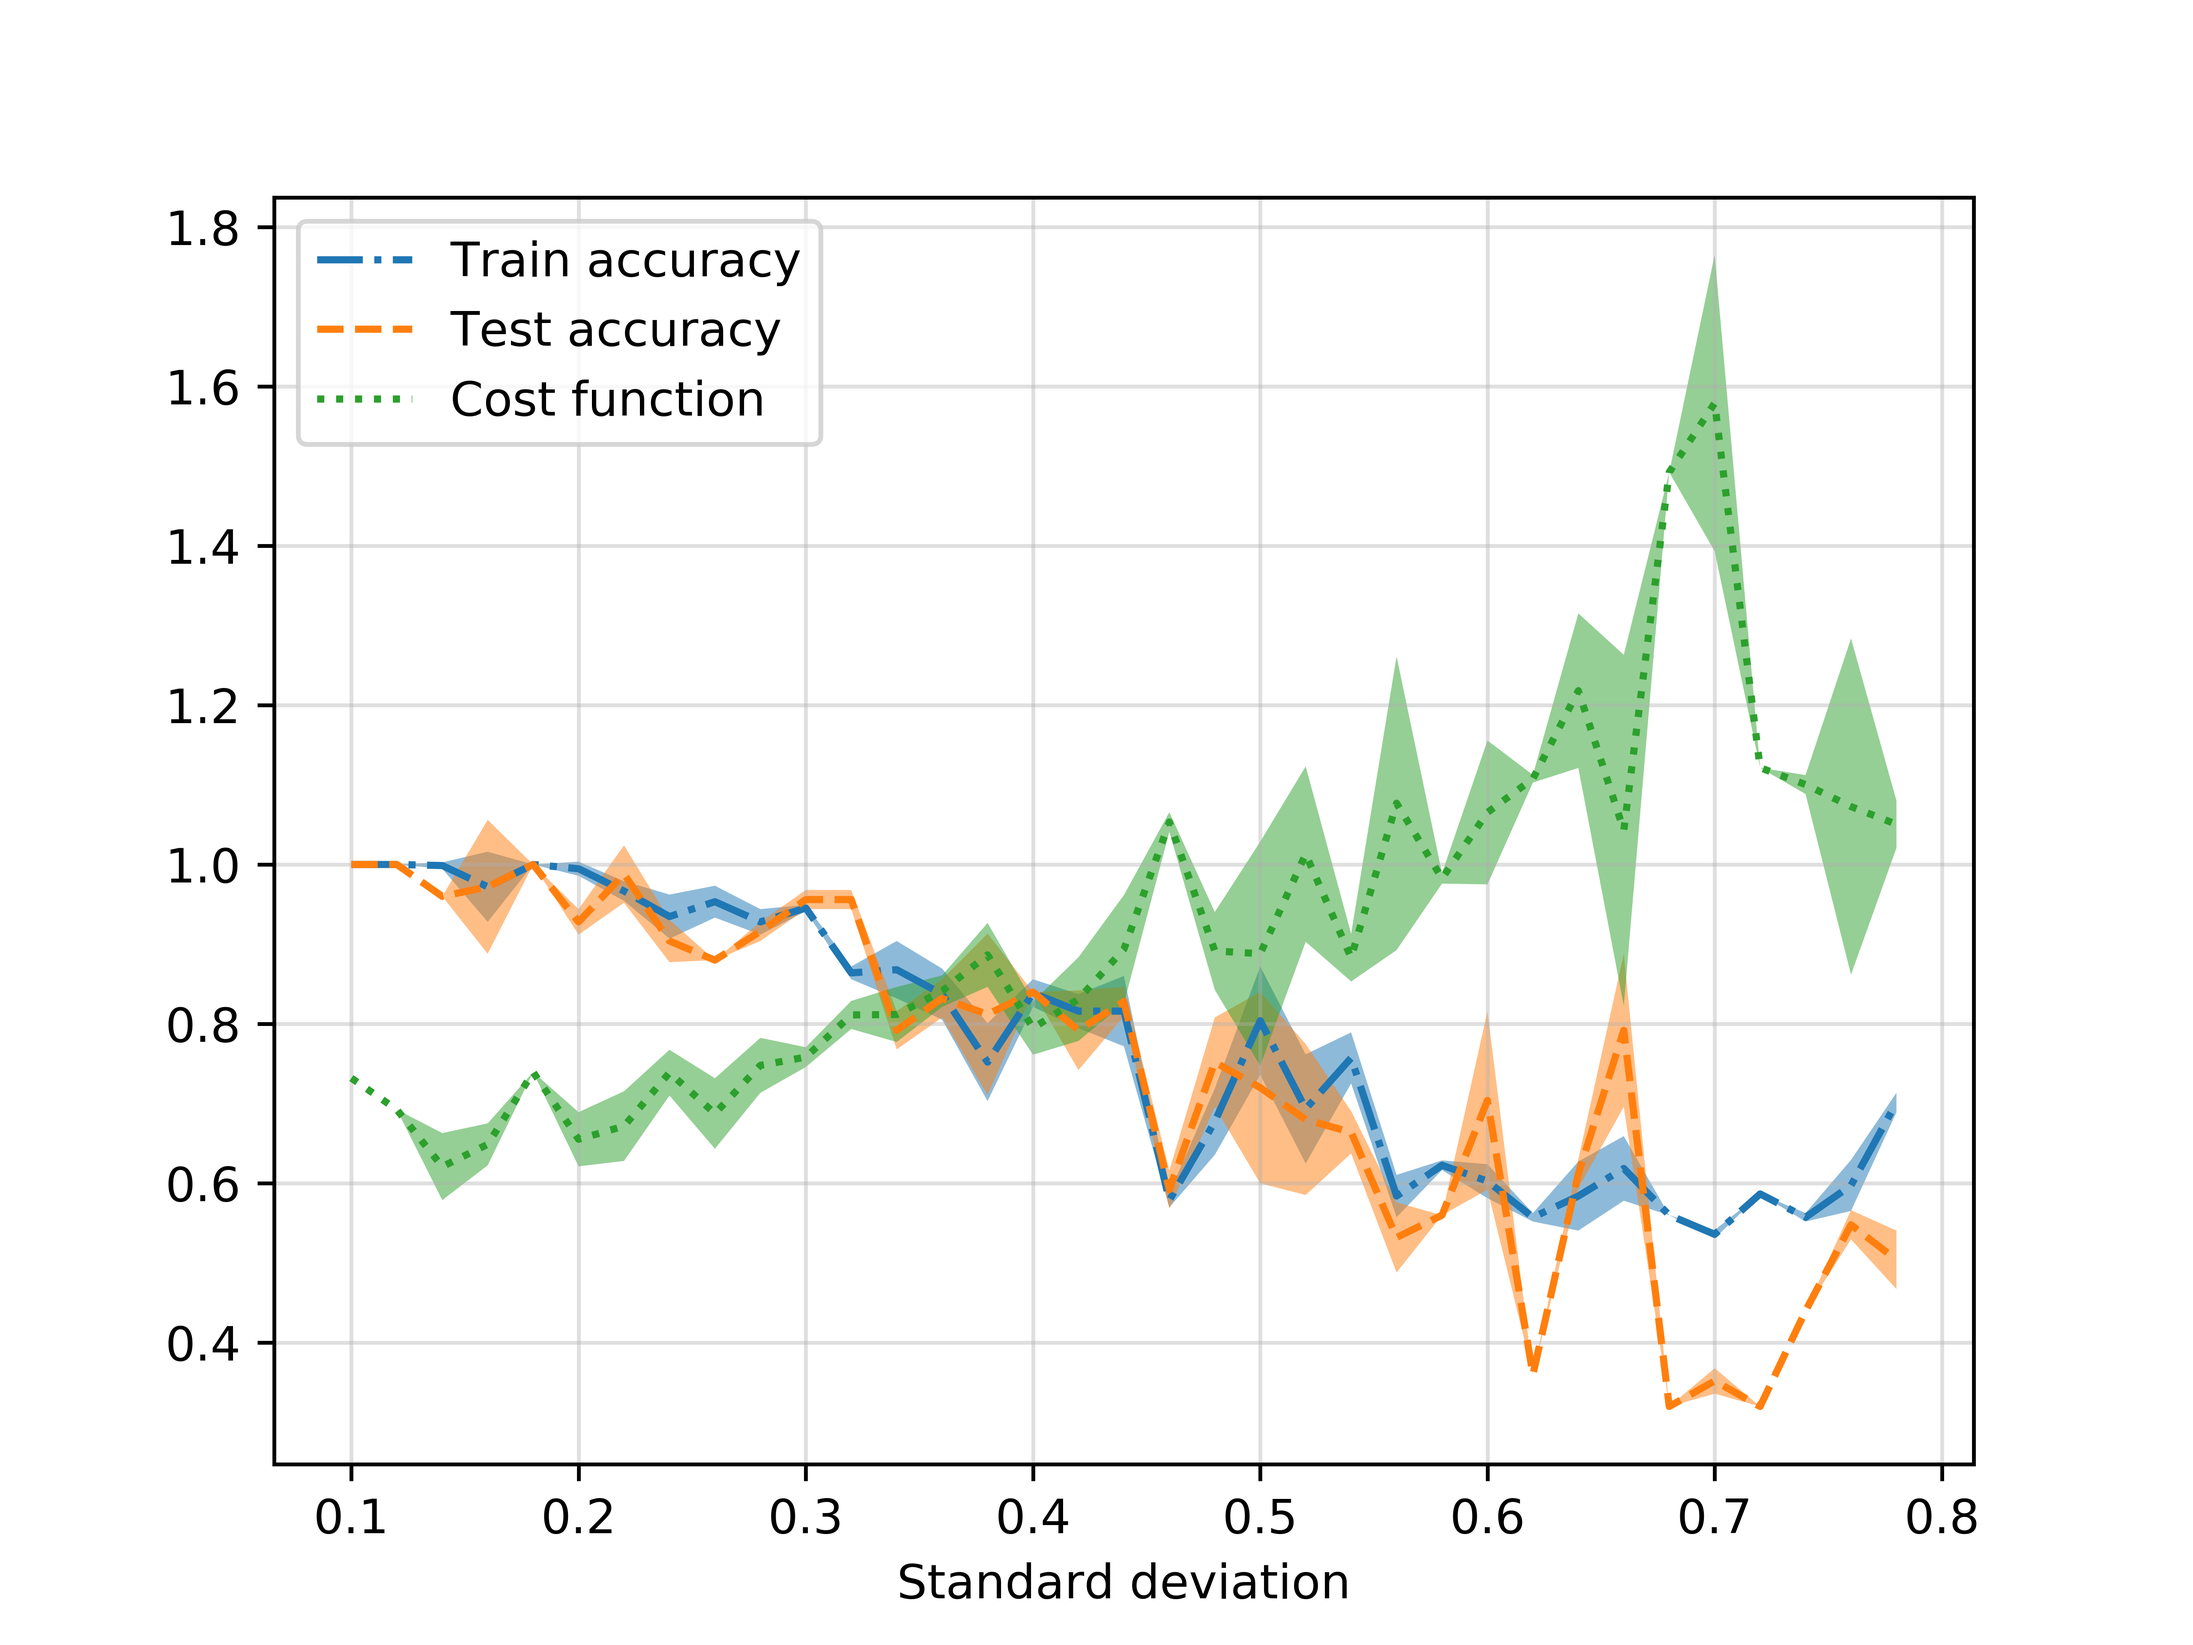
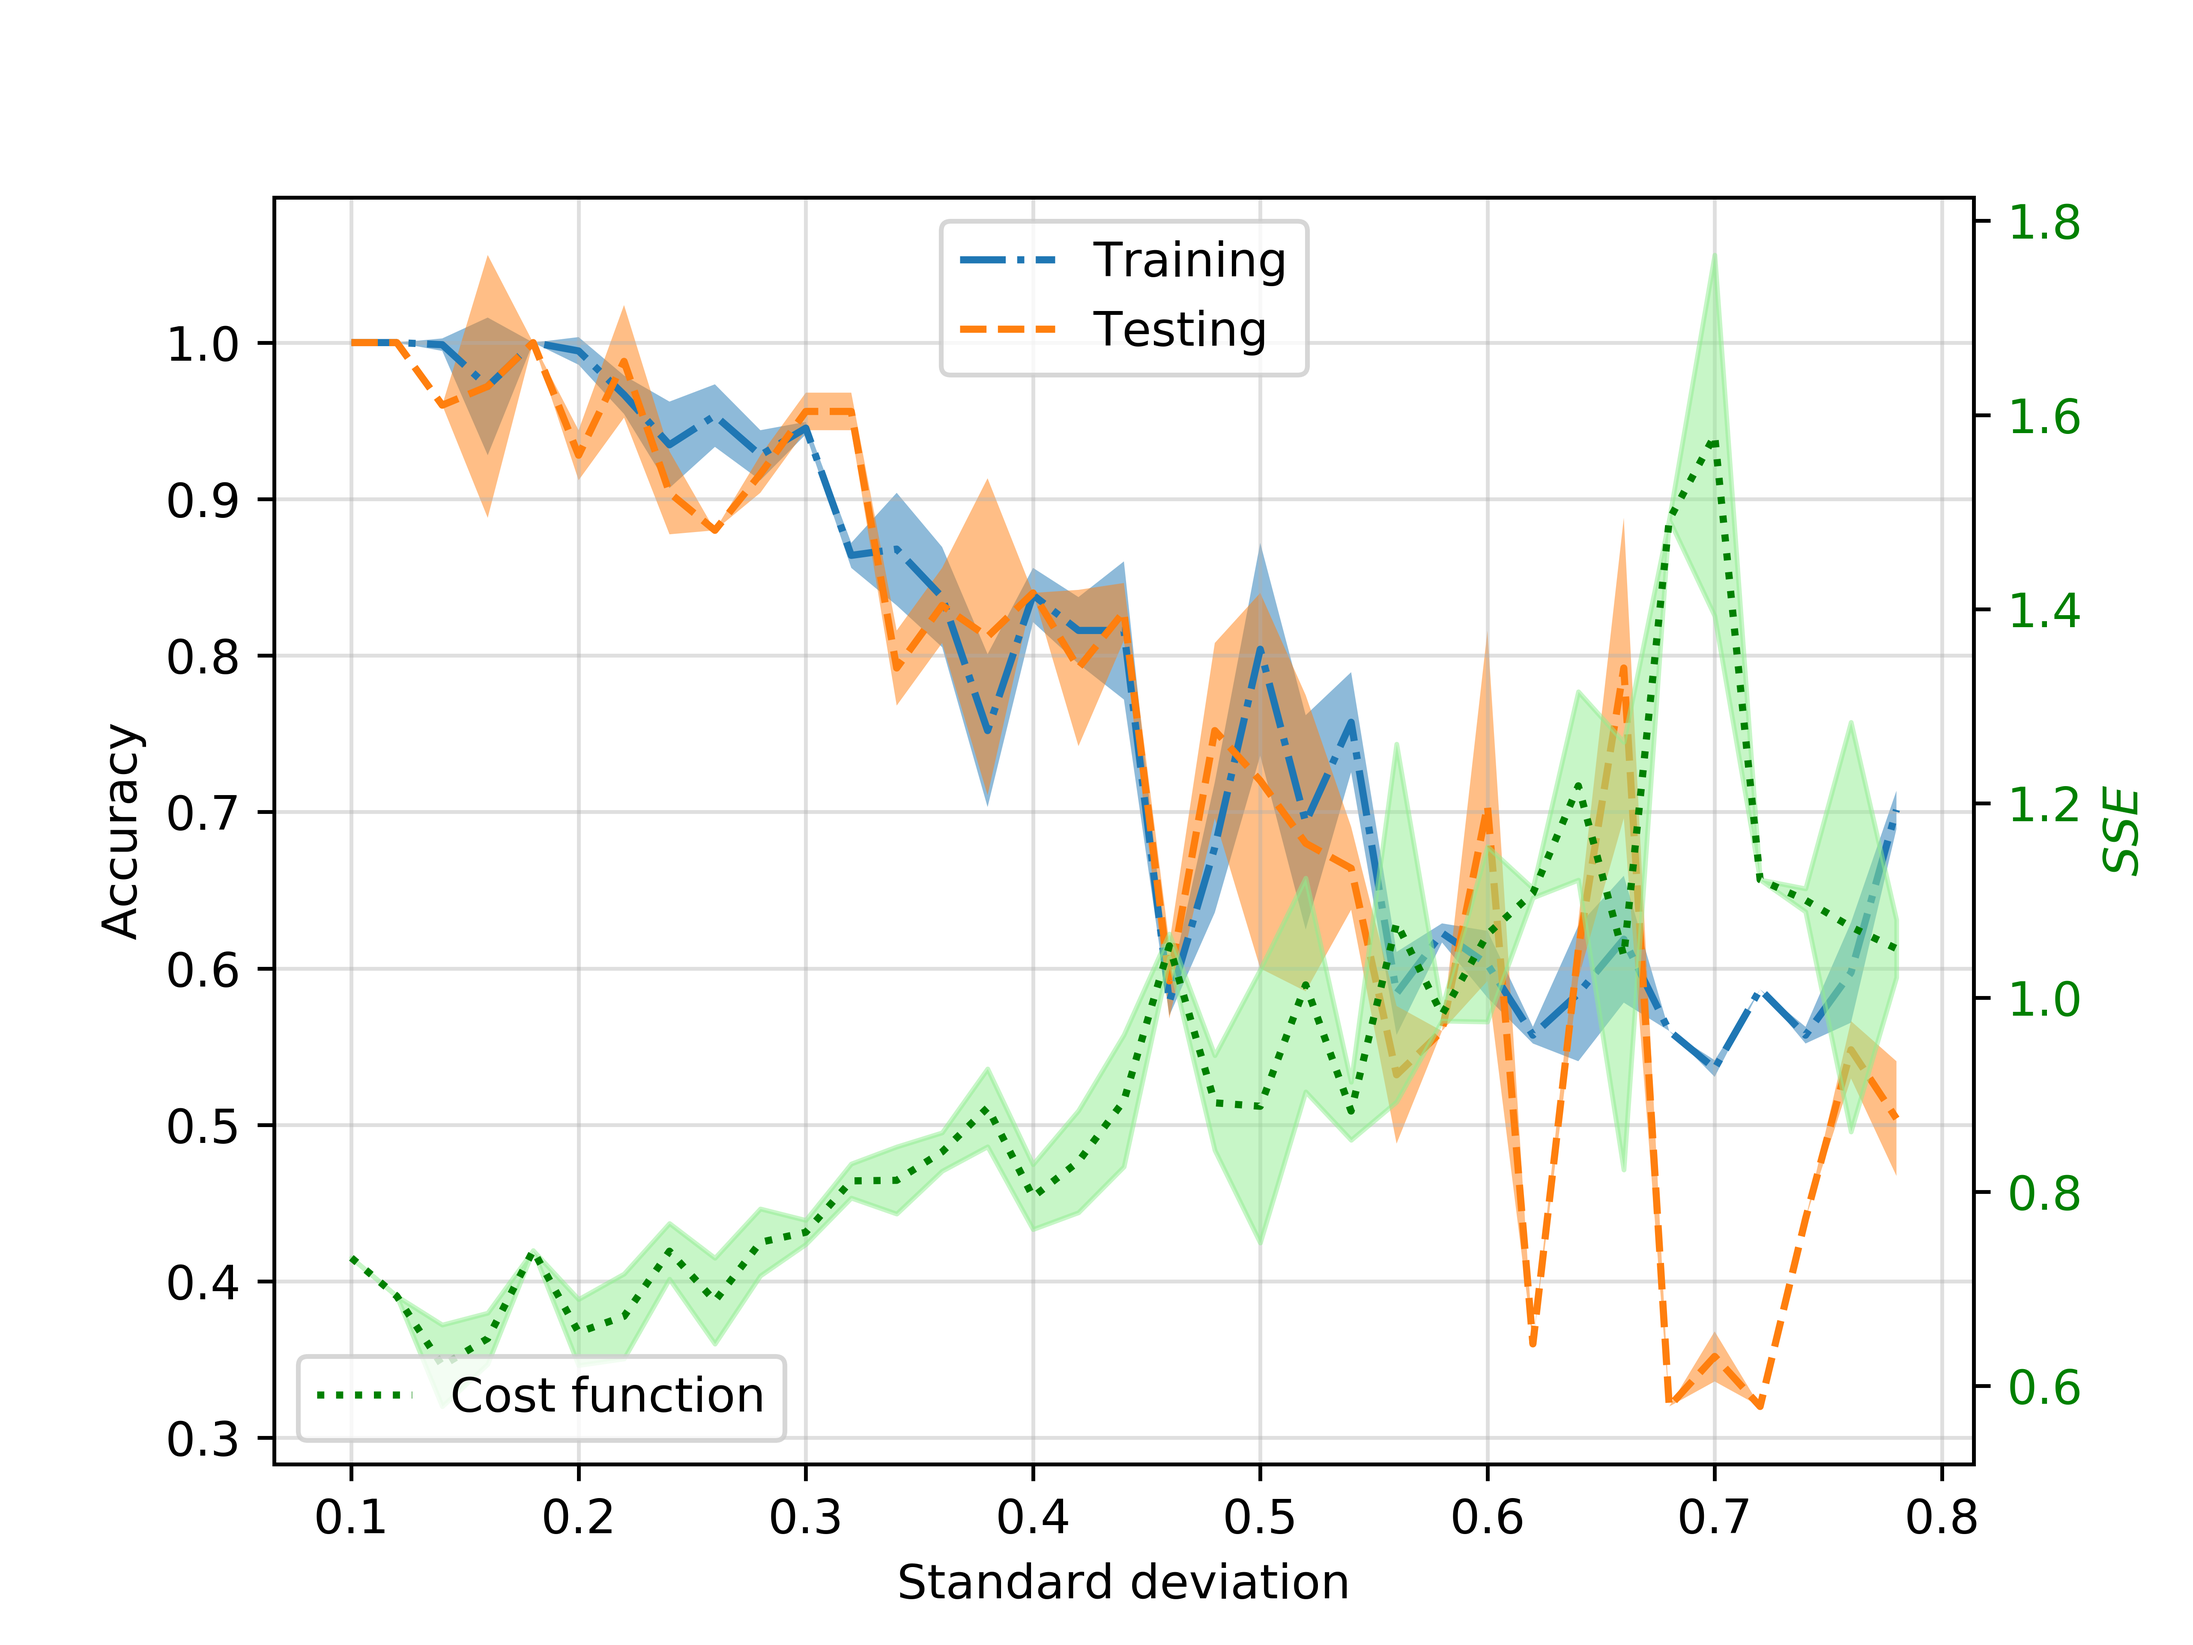
All experiments ok! code to fix

diff --git a/Quantum _SLP_std_dev.py b/Quantum _SLP_std_dev.py
@@ -160,21 +160,34 @@ cost_sd = np.array(cost_sd)
 import pandas as pd
 df = pd.DataFrame([train_mean, test_mean, cost_mean, train_sd, test_sd, cost_sd]).transpose()
 df.columns = ['train_mean', 'test_mean', 'cost_mean', 'train_sd', 'test_sd', 'cost_sd']
-df.to_csv('data.csv', index=False)
+# df.to_csv('data.csv', index=False)
 
-from matplotlib import pyplot as plt
-import numpy as np
+# from Utils_qml import *
+df = pd.read_csv('data.csv')
+std_dev = np.arange(0.1, 0.8, 0.02)
+train_mean = np.array(df.train_mean)
+test_mean = np.array(df.test_mean)
+cost_mean = np.array(df.cost_mean)
+train_sd = np.array(df.train_sd)
+test_sd = np.array(df.test_sd)
+cost_sd = np.array(df.cost_sd)
 
 
-plt.plot(std_dev, train_mean, linestyle = '-.', label="Train accuracy")
+plt.plot(std_dev, train_mean, linestyle = '-.', label="Training")
 plt.fill_between(std_dev, train_mean-train_sd, train_mean+train_sd, alpha = 0.5)
-plt.plot(std_dev, test_mean, linestyle = '--', label="Test accuracy")
+plt.plot(std_dev, test_mean, linestyle = '--', label="Testing")
 plt.fill_between(std_dev, test_mean-test_sd, test_mean+test_sd, alpha = 0.5)
-plt.plot(std_dev, cost_mean, linestyle = ':', label="Cost function")
-plt.fill_between(std_dev, cost_mean-cost_sd, cost_mean+cost_sd, alpha = 0.5)
-plt.legend()
+plt.legend(loc = 'upper center')
 plt.grid(alpha=0.4)
 plt.xlabel(r'Standard deviation')
+plt.ylabel(r'Accuracy')
+#plt.tick_params(axis='y', labelcolor='blue')
+plt2=plt.twinx()
+plt2.plot(std_dev, cost_mean, linestyle = ':', label="Cost function", color = 'green')
+plt2.fill_between(std_dev, cost_mean-cost_sd, cost_mean+cost_sd, alpha = 0.5, color = 'lightgreen')
+plt2.set_ylabel(r"$SSE$",color="green")
+plt2.tick_params(axis='y', labelcolor='green')
+plt2.legend(loc = 'lower left')
 plt.savefig('Opt_overlapp.png', dpi = 800)
 plt.show()
 plt.close()

diff --git a/Utils_qml.py b/Utils_qml.py
@@ -1,5 +1,6 @@
 import numpy as np
 import matplotlib.pyplot as plt
+import pandas as pd
 
 # Qiskit
 import qiskit
